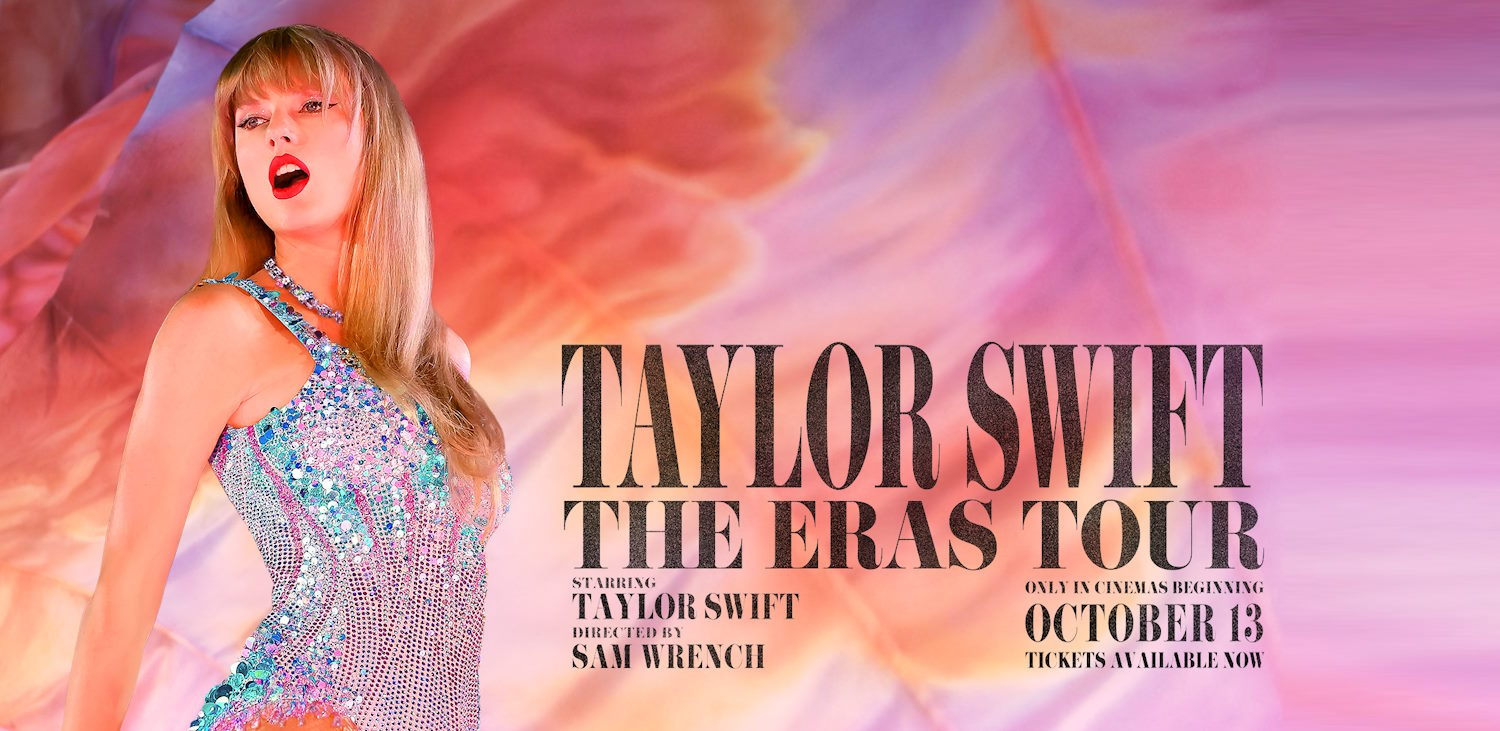
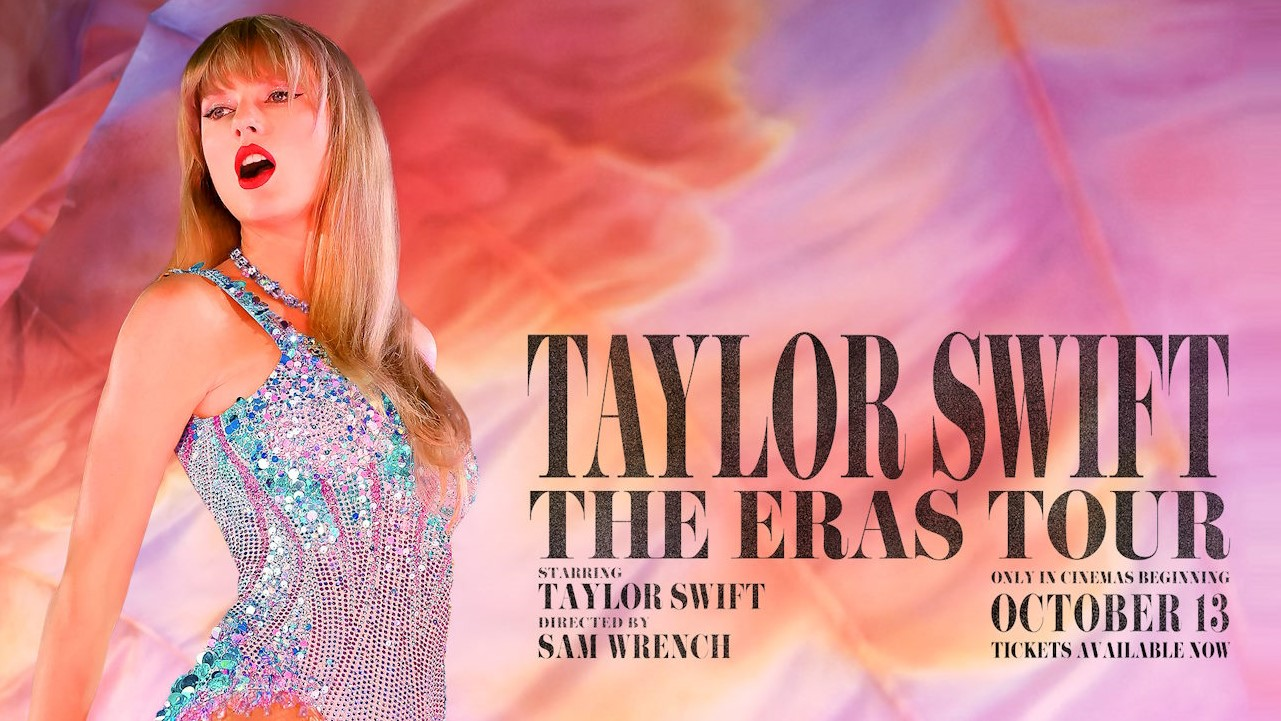
Slider added

diff --git a/style.css b/style.css
@@ -123,87 +123,22 @@ body{
 }
 
 .container{
-    display: flex;
-    flex-direction: row;
-    padding: 20px;
-    position: fixed;
-    bottom: 20px;
-    
-    
-    
-    
-    
-}
-
-.wrapper{
-    
-    position: relative;
-    display: flex;
-    /* width: 80vw;
-    height: 40vw; */
-    background-color: white;
-    
-}
-.slides{
-    
-    width: 80vw;
-    /* height: 40vw; */
-    /* aspect-ratio: 16/9; */
-    display: flex;
-    overflow-x: hidden;
-    overflow-y: hidden;
-    scroll-behavior: smooth;
-    scroll-snap-type: x mandatory;
-    
-    
-}
-.slide div{
-    flex: 1 0 100%;
-    scroll-snap-align: start;
-    object-fit: cover;
-}
-#slide-1{
-    background-image: url(assets/bg1.jpeg);
-    min-width: 80vw;
-    height: 40vw;
-    background-position: center;
-    background-size: cover;
-}
-#slide-2 {
-    background-image: url(assets/bg2.jpeg);
-    min-width: 80vw;
-    height: 40vw;
-    background-position: center;
-    background-size: cover;
-}
-#slide-3 {
-    background-image: url(assets/bg3.jpeg);
-    min-width: 80vw;
-    height: 40vw;
-    background-position: center;
-    background-size: cover;
-}
-
-.slidernav{
     position: absolute;
+    width: 73vw;
+    height: 40vw;
+    top: 70px;
+}
+.wrapper{
     display: flex;
-    column-gap: 15px;
-    bottom: 20px;
-    left: 50%;
-    transform: translate(-50%);
-    z-index: 1;
-    
+    flex: 1 0 100%;
+    overflow-x: auto;
+    scroll-behavior: smooth;
+}
+.wrapper::-webkit-scrollbar{
+    display: none;
 }
 
-.slidernav a{
-    width: 10px;
-    height: 10px;
-    background-color: white;
-    border-radius: 10px;
-    opacity: 75%;
-    transition: 0.3s;
+.wrapper img{
+    width: 73vw;
     
-}
-.slidernav a:hover {
-    opacity: 100%;
 }

diff --git a/index.html b/index.html
@@ -33,16 +33,9 @@
         <div class="background" id="background">
             <div class="container" id="container">
                 <div class="wrapper">
-                    <div class="slides">
-                        <div class="slide" id="slide-1"></div>
-                        <div class="slide" id="slide-2"></div>
-                        <div class="slide" id="slide-3"></div>
-                    </div>
-                    <div class="slidernav">
-                        <a href="#slide-1"></a>
-                        <a href="#slide-2"></a>
-                        <a href="#slide-3"></a>
-                    </div>
+                    <img id="slider1" src="assets/bg1.jpeg" alt="" srcset="">
+                    <img id="slider2" src="assets/bg2.jpeg" alt="" srcset="">
+                    <img id="slider3" src="assets/bg3.jpeg" alt="" srcset="">
                 </div>
             </div>
         </div>

diff --git a/script.js b/script.js
@@ -5,5 +5,5 @@
 
 window.addEventListener("scroll",()=>{
     document.getElementById("background").style.backgroundSize = `${window.scrollY * 1 + window.innerWidth}px`;
-    document.getElementById("container").style.transform = `translateY(-${window.scrollY*2}px)`;
+    document.getElementById("container").style.transform = `translateY(-${window.scrollY*1.2}px)`;
 })
